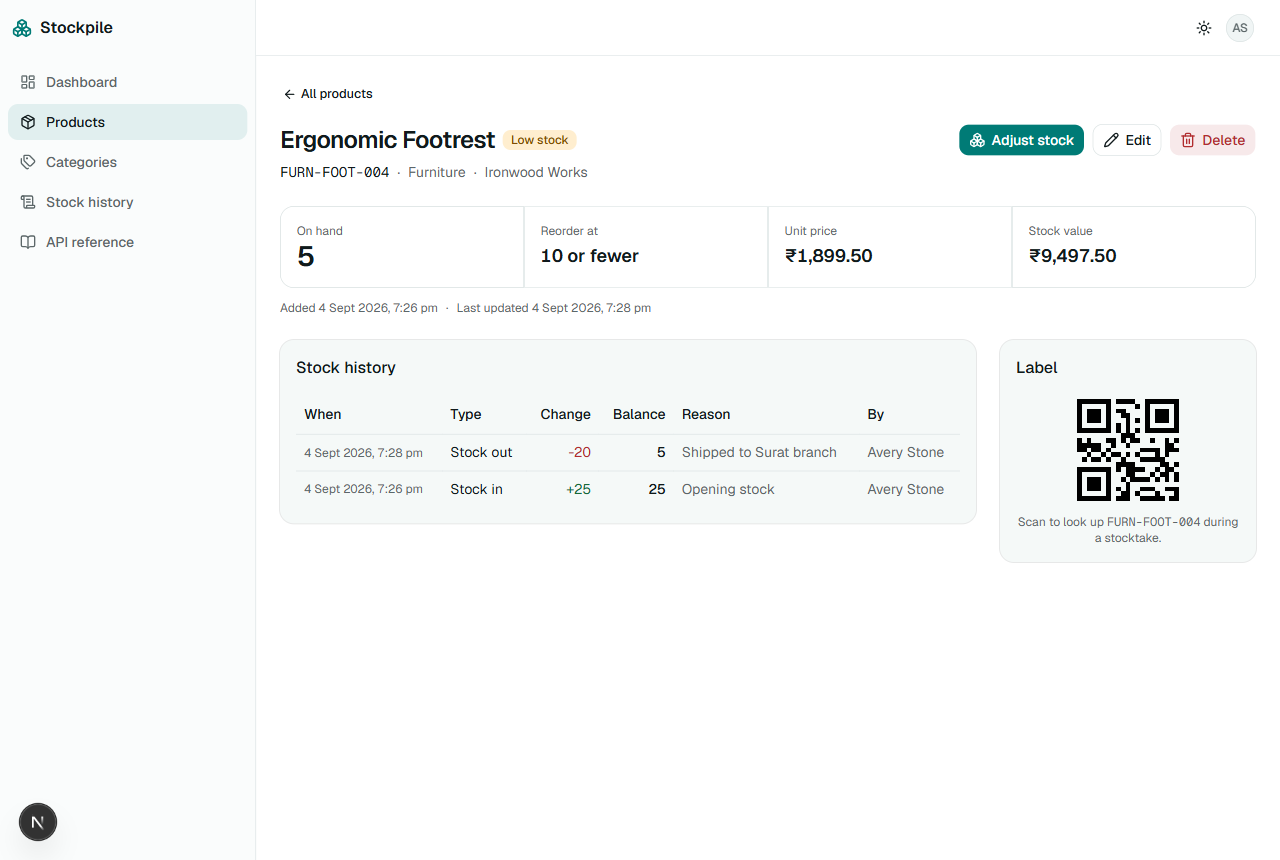
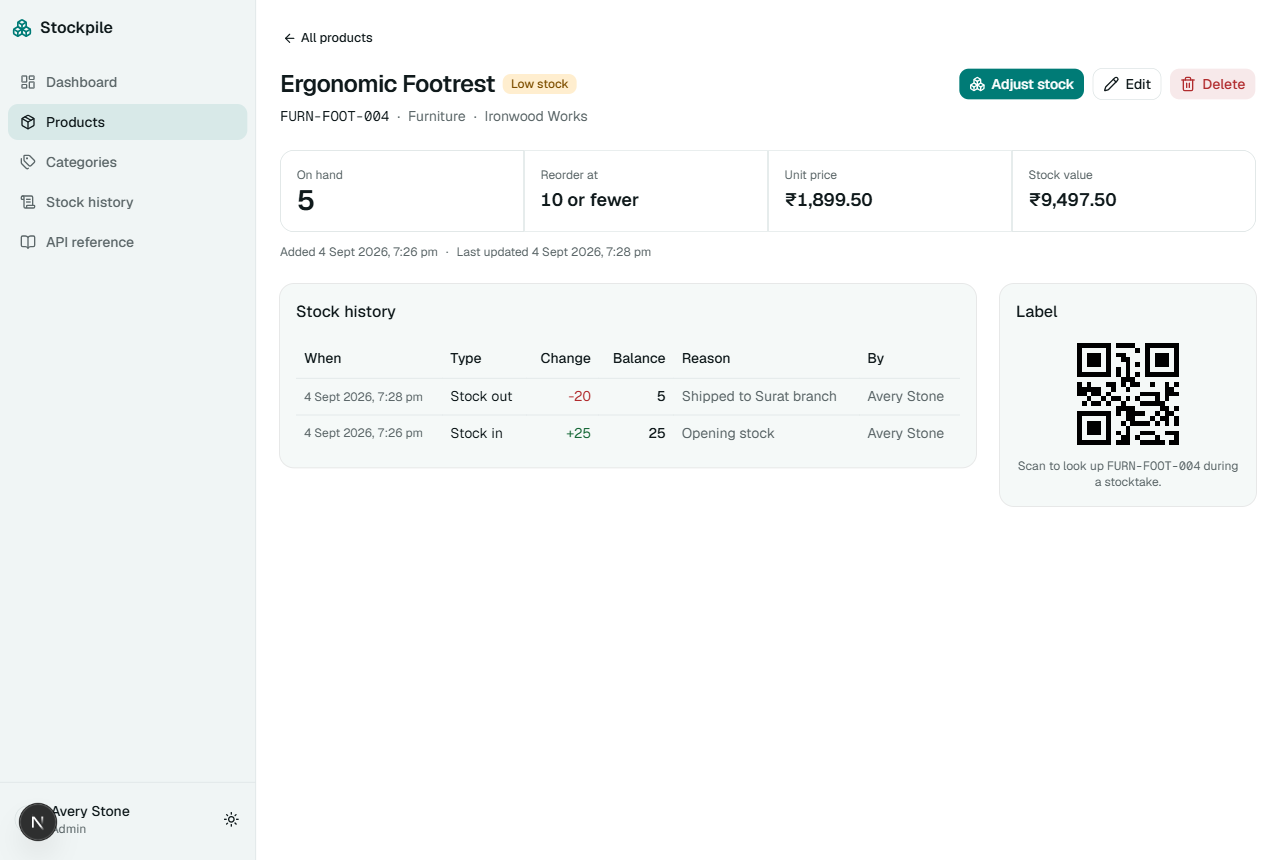
design: reclaim the empty desktop header, move account controls to the sidebar

diff --git a/src/components/shell/user-menu.tsx b/src/components/shell/user-menu.tsx
@@ -27,7 +27,14 @@ const initials = (name: string) =>
     .map((part) => part[0]?.toUpperCase())
     .join("") || "?";
 
-export function UserMenu({ user }: { user: SessionUser }) {
+export function UserMenu({
+  user,
+  /** The sidebar footer has room for the name; the mobile bar does not. */
+  showName = false,
+}: {
+  user: SessionUser;
+  showName?: boolean;
+}) {
   const router = useRouter();
   const [signingOut, setSigningOut] = useState(false);
 
@@ -47,11 +54,34 @@ export function UserMenu({ user }: { user: SessionUser }) {
     <DropdownMenu>
       <DropdownMenuTrigger
         render={
-          <Button variant="ghost" size="icon" aria-label="Account menu">
-            <Avatar className="size-7">
-              <AvatarFallback className="text-xs">{initials(user.name)}</AvatarFallback>
-            </Avatar>
-          </Button>
+          showName ? (
+            <Button
+              variant="ghost"
+              className="h-auto min-w-0 flex-1 justify-start gap-2 px-1.5 py-1.5"
+              aria-label="Account menu"
+            >
+              <Avatar className="size-7 shrink-0">
+                <AvatarFallback className="text-xs">{initials(user.name)}</AvatarFallback>
+              </Avatar>
+              <span className="grid min-w-0 text-left">
+                <span className="truncate text-sm font-medium">{user.name}</span>
+                <span className="truncate text-xs font-normal text-muted-foreground capitalize">
+                  {user.role}
+                </span>
+              </span>
+            </Button>
+          ) : (
+            <Button
+              variant="ghost"
+              size="icon"
+              className="touch-target"
+              aria-label="Account menu"
+            >
+              <Avatar className="size-7">
+                <AvatarFallback className="text-xs">{initials(user.name)}</AvatarFallback>
+              </Avatar>
+            </Button>
+          )
         }
       />
       <DropdownMenuContent align="end" className="w-56">

diff --git a/src/app/(app)/layout.tsx b/src/app/(app)/layout.tsx
@@ -14,19 +14,27 @@ export default async function AppLayout({ children }: LayoutProps<"/">) {
 
   return (
     <div className="flex min-h-svh flex-col lg:grid lg:grid-cols-[16rem_1fr]">
-      <aside className="hidden border-r bg-muted/30 py-4 lg:flex lg:flex-col lg:gap-6">
+      <aside className="hidden border-r bg-sidebar py-4 lg:flex lg:flex-col lg:gap-6">
         <Brand />
         <div className="px-2">
           <Nav />
         </div>
+        {/* Account controls live at the foot of the sidebar, which is where
+            this class of app puts them, and which lets the page heading be
+            the topmost thing in the content area. */}
+        <div className="mt-auto flex items-center gap-1 border-t px-2 pt-3">
+          <UserMenu user={user} showName />
+          <ThemeToggle />
+        </div>
       </aside>
 
       <div className="flex min-w-0 flex-1 flex-col">
-        <header className="sticky top-0 z-10 flex h-14 items-center gap-2 border-b bg-background/85 px-3 backdrop-blur sm:px-6">
+        {/* Only below lg, where the drawer trigger has to live somewhere. On
+            desktop the sidebar carries all of this, so no bar is rendered and
+            the page heading sits at the very top. */}
+        <header className="sticky top-0 z-10 flex h-14 items-center gap-2 border-b bg-background/85 px-3 backdrop-blur sm:px-6 lg:hidden">
           <MobileNav />
-          <div className="lg:hidden">
-            <Brand />
-          </div>
+          <Brand />
           <div className="ml-auto flex items-center gap-1">
             <ThemeToggle />
             <UserMenu user={user} />
